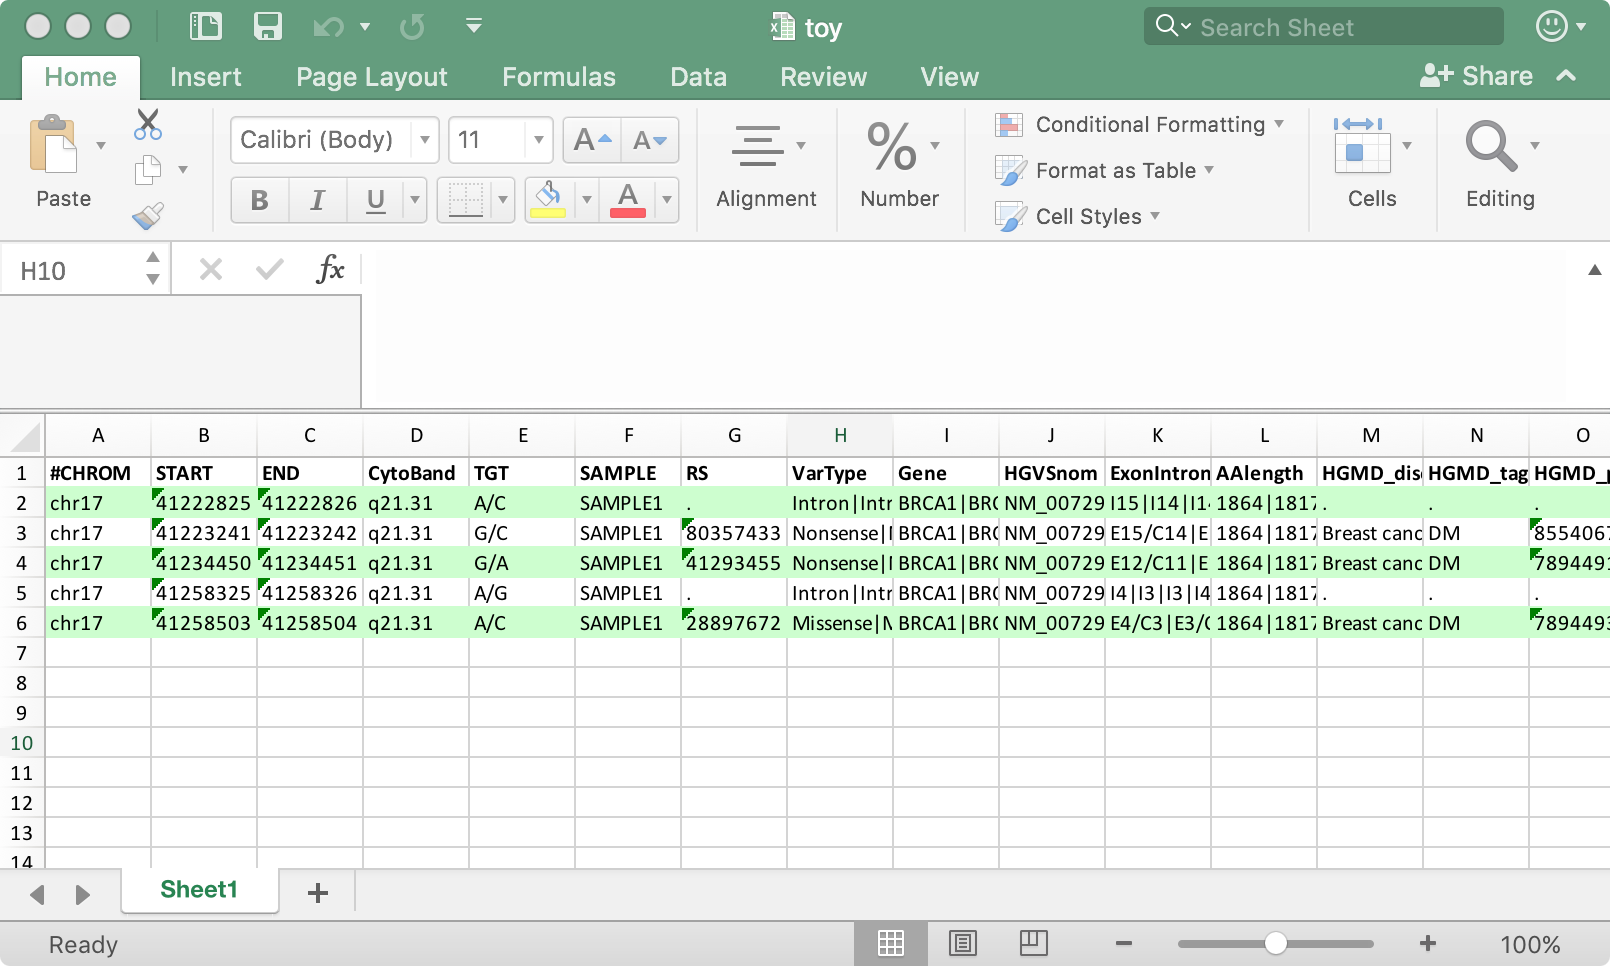
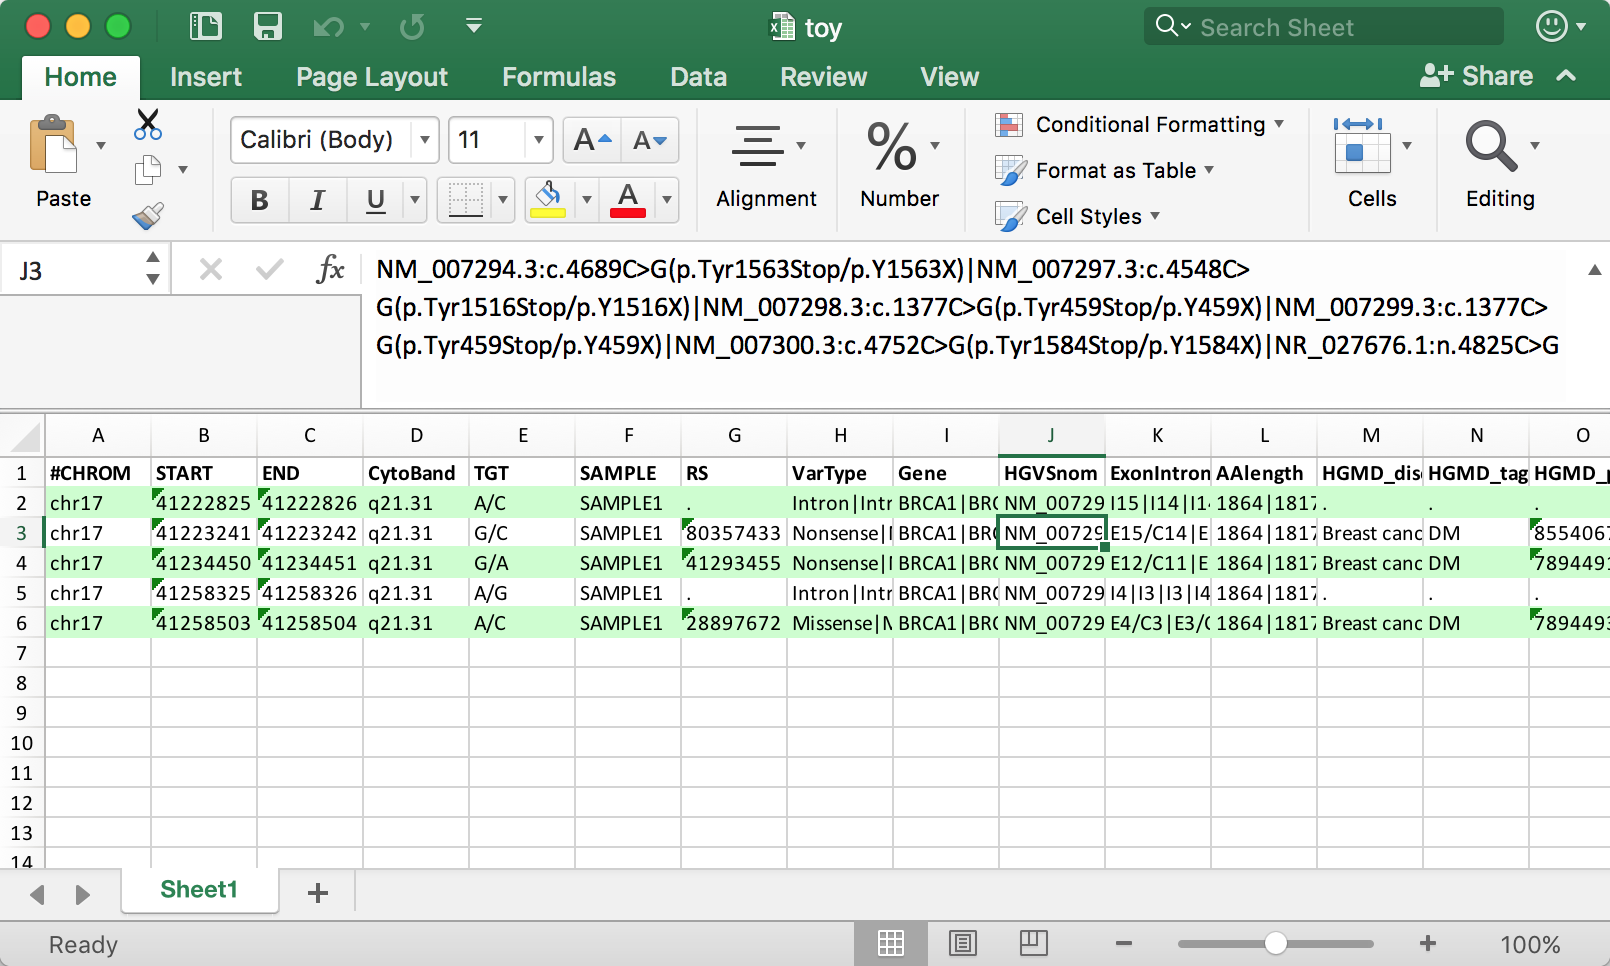
modified:   Documentation/toy_anno.png 	modified:   README.md

diff --git a/README.md b/README.md
@@ -45,7 +45,7 @@ This step is optional, need to install my another program [tsv2excel](https://gi
 ```
 ./bcfanno -c toy.json example/toy.vcf.gz -q | ./vcf2tsv -f BED,CytoBand,TGT,SAMPLE,RS,VarType,Gene,HGVSnom,ExonIntron,AAlength,HGMD_disease,HGMD_tag,HGMD_pmid | tsv2excel -o toy.xlsx
 ```
-
+<img src="https://raw.githubusercontent.com/shiquan/bcfanno/master/Documentation/toy_anno.png" width="805" height="483" />
 
 ## Additional programs included in bcfanno package
 
